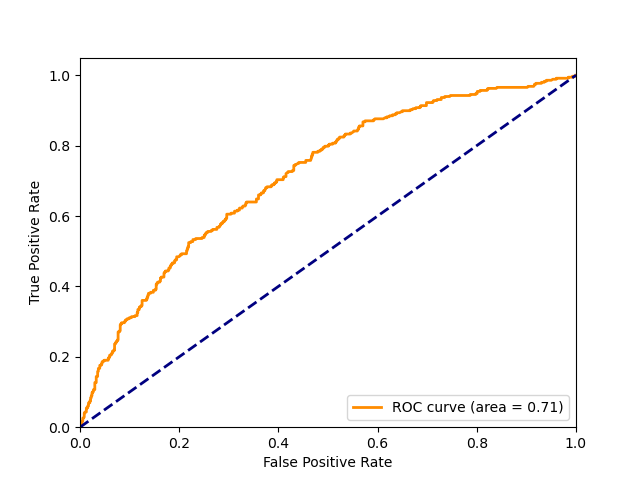
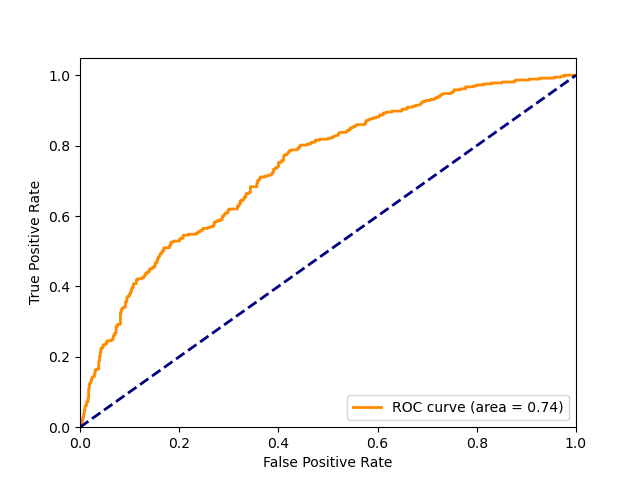
shape functions

diff --git a/utils.py b/utils.py
@@ -1,15 +1,16 @@
 import time
 import torch
+import pandas as pd
 import torch.nn as nn
 from torch.utils.data import Dataset, DataLoader
-
+from plots import plot_roc_curve, plot_shape_functions
 
 class CompasData(Dataset):
     def __init__(self, X, y):
         assert len(X) == len(y)
         n, m = X.shape
         self.n = n
-        self.m = m - 1
+        self.m = m
         self.X = torch.tensor(X, dtype=torch.float64)
         self.y = torch.tensor(y, dtype=torch.float64)        
 
@@ -20,7 +21,7 @@ class CompasData(Dataset):
         return self.X[idx], self.y[idx]
 
 
-def train_model(model, data, max_epochs = 10, batch_size = 32, learning_rate = 1e-3, weight_decay = 5e-4, verbosity = 20):
+def train_model(model, data, max_epochs = 10, batch_size = 32, learning_rate = 1e-3, weight_decay = 5e-4, output_penalty = 0., verbosity = 20):
     # Data loader
     loader = DataLoader(
         data, 
@@ -35,20 +36,40 @@ def train_model(model, data, max_epochs = 10, batch_size = 32, learning_rate = 1
         weight_decay = weight_decay
     )    
     
-    loss = nn.BCELoss()
+    loss = nn.BCELoss(reduction='none')
     no_batches = len(loader)
     for epoch in range(max_epochs):
         start = time.time()
         for i, (x, y) in enumerate(loader):
             optimizer.zero_grad()                        
-            y_, _ = model(x)
-            err = loss(y_, y)
+            y_, p_ = model(x)
+            pen = torch.norm(p_, dim = 1)
+            err = loss(y_, y) + output_penalty * pen
+            err = err.mean()
             
             err.backward()
             optimizer.step()
             
             if verbosity is not None:
                 if i % verbosity == 0:
-                    print('Epoch: {0}/{1};\t Batch: {2}/{3};\t Err: {4:1.3f}'.format(epoch, max_epochs, i, no_batches, err.item()))
+                    print('Epoch: {0}/{1};\t Batch: {2}/{3};\t Err: {4:1.3f}'.format(epoch + 1, max_epochs, i + 1, no_batches, err.item()))
 
         print('\n\t Epoch finished in {:1.2f} seconds!\n'.format(time.time() - start))
+
+
+def eval_model(model, data, feature_names):
+    model.eval()
+    with torch.no_grad():
+        y_, p_ = model(data.X)    
+
+    preds = y_.flatten().numpy()
+    targets = data.y.numpy()
+    plot_roc_curve(preds, targets)
+
+    features = data.X.numpy()
+    partials = p_.numpy()
+
+    features = pd.DataFrame(features, coumns = feature_names)
+    partials = pd.DataFrame(partials, coumns = feature_names)
+
+    plot_shape_functions(features, partials)    

diff --git a/demo.py b/demo.py
@@ -1,14 +1,15 @@
 import pandas as pd
 from sklearn.model_selection import train_test_split
-from plots import plot_roc_curve
 from nam import NAM, FFNN
-from utils import CompasData, train_model
+from utils import CompasData, train_model, eval_model
 
 
 def main():
-    data = pd.read_csv('./data/compas/compas.csv')    
-    data = data.values
-    X, y = data[:,:-1], data[:, -1]
+    data = pd.read_csv('./data/compas/compas.csv')   
+    cols = data.columns
+
+    X = data.iloc[:,:-1].values
+    y = data.iloc[:, -1].values
     X_train, X_test, y_train, y_test = train_test_split(X, y, test_size=0.1)
 
     data_train = CompasData(X_train, y_train)
@@ -18,7 +19,7 @@ def main():
         6, 
         [64, 64, 32],
         dropout_rate = 0.1, 
-        feature_dropout=0.0, 
+        feature_dropout=0.05, 
         use_exu=False
     )
     model = model.double()
@@ -29,16 +30,16 @@ def main():
         batch_size = 16, 
         max_epochs=10, 
         verbosity=20, 
-        learning_rate=2e-4
+        learning_rate=2e-4,
+        weight_decay=0.,
+        output_penalty=0.2
     )
 
-    model.eval()
-    y_, p_ = model(data_test.X)
-
-    preds = y_.flatten().detach().numpy()
-    partial = p_.flatten().detach().numpy()
-    targets = data_test.y.numpy()
-    plot_roc_curve(preds, targets)
+    eval_model(
+        model,
+        data_test,
+        feature_names = cols
+    )
 
 if __name__ == '__main__':
     main()

diff --git a/plots.py b/plots.py
@@ -11,10 +11,35 @@ def plot_roc_curve(preds, targets, fname = './results/roc_curve.png'):
     plt.plot([0, 1], [0, 1], color='navy', lw=lw, linestyle='--')
     plt.xlim([0.0, 1.0])
     plt.ylim([0.0, 1.05])
+    plt.grid()
     plt.xlabel('False Positive Rate')
     plt.ylabel('True Positive Rate')
     plt.legend(loc="lower right")
     plt.savefig(fname)
 
 
-def plot_shape_functions():
+def plot_shape_functions(x, p, nrows = 2, fname = './results/shape_functions.png'):
+    assert x.shape == p.shape
+
+    n = x.shape[1]    
+    ncols = n // nrows
+    plt.clf()
+    fig, axes = plt.subplots(nrows = nrows, ncols = ncols, figsize = (10, 5))
+    for i, col in range(x.columns):
+        x = x.sort_values(col)
+        p = p.loc[x.index]
+        r = i // ncols
+        c = i % ncols                
+        axes[r, c].plot(x[col], p[col], 'o--')
+        axes[r, c].grid()
+        axes[r, c].set_xlabel(col.replace('_', ' '))
+
+        twin = axes[r, c].twinx()
+        twin.hist(x[col], alpha = .5)
+        
+    plt.tight_layout()
+    plt.savefig(fname)
+
+
+
+
